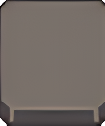
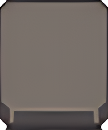
Improve app

Changed region(s): [[0.0, 0.0, 1.0, 1.0], [0.0, 0.7857, 0.1143, 0.8571]]

diff --git a/src/Components/Apps/App2/App2.jsx b/src/Components/Apps/App2/App2.jsx
@@ -11,8 +11,8 @@ const App2 = (props) => {
                         <div className={props.img + " app-img"}></div>
                     </div>
                 </div>
-                <div className="app-name">{props.text}</div>
             </section>
+            <div className="app-name">{props.text}</div>
         </div>
     )
 }

diff --git a/src/Components/Apps/App3/App3.jsx b/src/Components/Apps/App3/App3.jsx
@@ -11,8 +11,8 @@ const App = (props) => {
                         <div className={props.img + " app-img"}></div>
                     </div>
                 </div>
-                <div className="app-name">{props.text}</div>
             </section>
+            <div className="app-name">{props.text}</div>
         </div>
     )
 }

diff --git a/src/Components/Apps/App/App.jsx b/src/Components/Apps/App/App.jsx
@@ -12,8 +12,8 @@ const App = (props) => {
                         <div className={props.img + " app-img"}></div>
                     </div>
                 </div>
-            <div className="app-name">{props.text}</div>
             </section>
+            <div className="app-name">{props.text}</div>
         </div>
     )
 }

diff --git a/src/Components/Apps/App/App.css b/src/Components/Apps/App/App.css
@@ -47,6 +47,8 @@
 }
 
 .app-name{
-    width: 100%;
-    padding-top: 5px;
+    width: 50px;
+    height: 10px;
+    font-size: 0.7rem;
+    text-align: center;
 }

diff --git a/src/Components/Apps/App2/App2.css b/src/Components/Apps/App2/App2.css
@@ -4,4 +4,5 @@
 
 .app2 .app-icon:active {
     background-image: url(./../../../images/Btns/btn2-click.png);
+    border-radius: 6px !important;
 }
